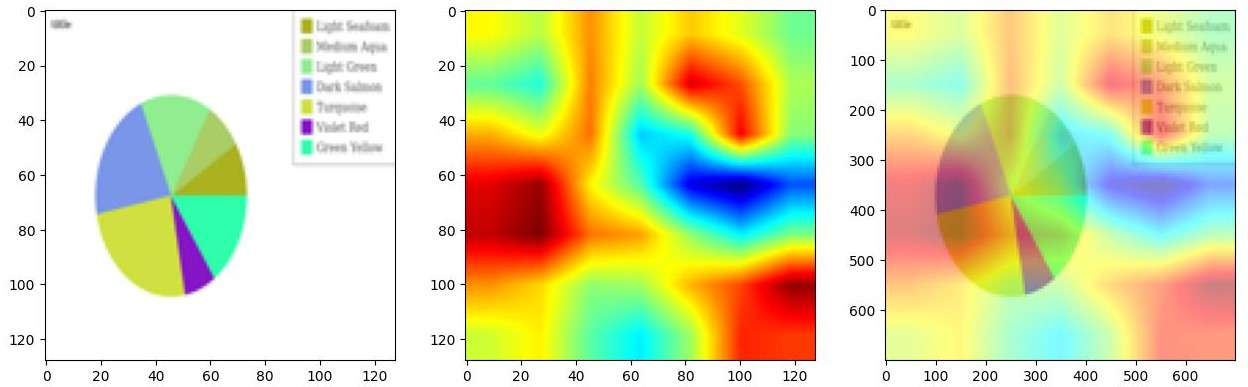
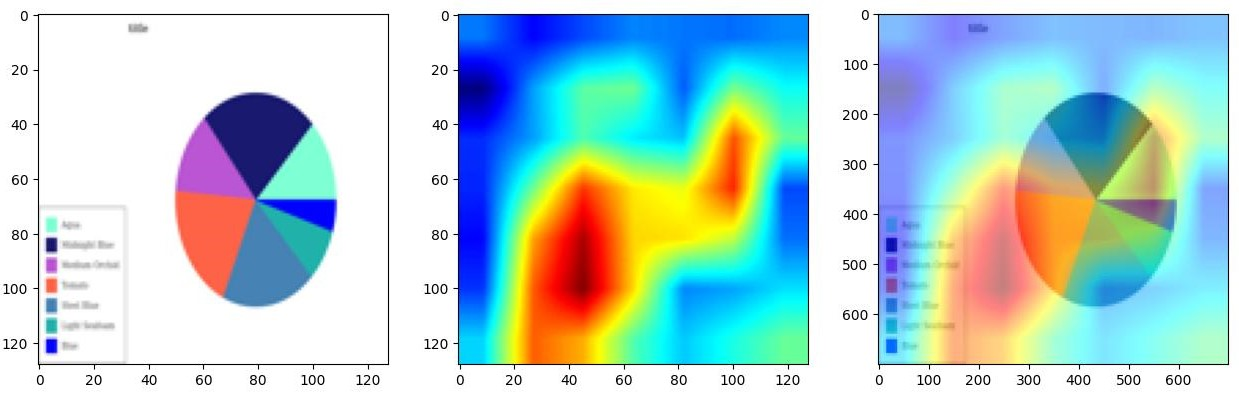
Updated HeatMap

diff --git a/charts/GradCam.py b/charts/GradCam.py
@@ -13,24 +13,23 @@ import numpy as np
 ##############################################################
 # Reading the images
 
-Dot_line = cv2.imread('Test/Dot Line/20.png')
-Horizontal_Bar = cv2.imread('Test/Horizontal Bar/16.png')
-Vertical_Bar = cv2.imread('Test/Vertical Bar/6.png')
-Line = cv2.imread('Test/Line/8.png')
-Pie = cv2.imread('Test/Pie/48.png')
+Dot_line = cv2.imread('Test/Dot Line/18.png')
+Horizontal_Bar = cv2.imread('Test/Horizontal Bar/30.png')
+Vertical_Bar = cv2.imread('Test/Vertical Bar/0.png')
+Line = cv2.imread('Test/Line/4.png')
+Pie = cv2.imread('Test/Pie/14.png')
 
 # Proceeding with just single image
 # load the original image from disk (in OpenCV format) and then
 # resize the image to its target dimensions
-orig = cv2.imread("Test/Line/8.png")
+orig = cv2.imread("Test/Pie/14.png")
 resized = cv2.resize(orig, (224, 224))
 
 # Expanding image to feed the networks
-Pie = load_img('Test/Line/8.png', target_size=(224, 224))
+Pie = load_img('Test/Pie/14.png', target_size=(224, 224))
 Pie = img_to_array(Pie)
 Pie = np.expand_dims(Pie, axis=0)
 Pie = imagenet_utils.preprocess_input(Pie)
-print(Pie.shape)
 
 ###############################################################
 ###############################################################
@@ -149,6 +148,10 @@ heatmap = cv2.resize(heatmap, (orig.shape[1], orig.shape[0]))
 # display the original image and resulting heatmap and output image
 # to our screen
 output = imutils.resize(output, height=700)
+
+output = cv2.cvtColor(output, cv2.COLOR_BGR2RGB)
+heatmap = cv2.cvtColor(heatmap, cv2.COLOR_BGR2RGB)
+orig = cv2.cvtColor(orig, cv2.COLOR_BGR2RGB)
 
 # plotting through plt
 plt.figure(1)
